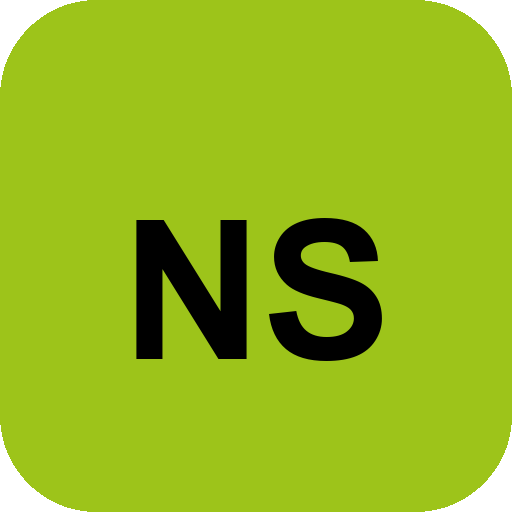
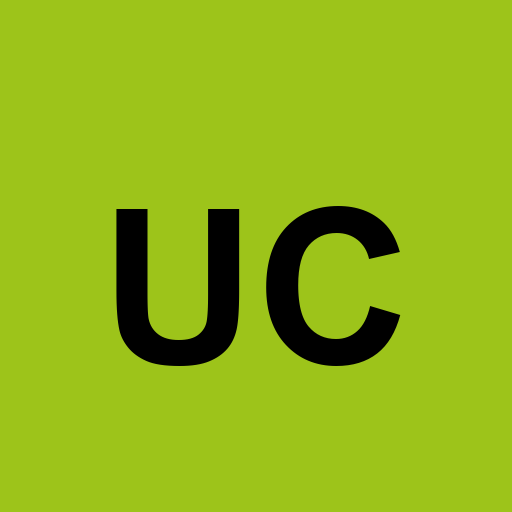
Use a UC home-screen mark so UCM no longer looks like NS Suite.
Regenerate apple-touch and favicons with opaque UC branding, and add PWA manifest metadata for Add to Home Screen.

diff --git a/src/app/manifest.ts b/src/app/manifest.ts
@@ -1,0 +1,35 @@
+import type { MetadataRoute } from "next";
+
+/** PWA / Add to Home Screen metadata for Ultra Content Maker. */
+export default function manifest(): MetadataRoute.Manifest {
+  return {
+    name: "Ultra Content Maker",
+    short_name: "UCM",
+    description:
+      "LinkedIn AI ghostwriter and authority system · Persona, brief, quality posts, export.",
+    start_url: "/",
+    display: "standalone",
+    background_color: "#9dc41a",
+    theme_color: "#9dc41a",
+    icons: [
+      {
+        src: "/icon-192.png",
+        sizes: "192x192",
+        type: "image/png",
+        purpose: "any",
+      },
+      {
+        src: "/icon-512.png",
+        sizes: "512x512",
+        type: "image/png",
+        purpose: "any",
+      },
+      {
+        src: "/apple-touch-icon.png",
+        sizes: "180x180",
+        type: "image/png",
+        purpose: "any",
+      },
+    ],
+  };
+}

diff --git a/src/app/layout.tsx b/src/app/layout.tsx
@@ -19,11 +19,19 @@ export const metadata: Metadata = {
  metadataBase: new URL(siteUrl),
  title: "ULTRA CONTENT MAKER",
  description: siteDescription,
+ applicationName: "Ultra Content Maker",
+ appleWebApp: {
+ capable: true,
+ title: "UCM",
+ statusBarStyle: "default",
+ },
  icons: {
  icon: [
  { url: "/favicon.ico", sizes: "any" },
  { url: "/icon.svg", type: "image/svg+xml" },
  { url: "/icon.png", type: "image/png", sizes: "32x32" },
+ { url: "/icon-192.png", type: "image/png", sizes: "192x192" },
+ { url: "/icon-512.png", type: "image/png", sizes: "512x512" },
  ],
  apple: [{ url: "/apple-touch-icon.png", type: "image/png", sizes: "180x180" }],
  },

diff --git a/src/lib/brand/ns-mark-image.tsx b/src/lib/brand/ns-mark-image.tsx
@@ -8,7 +8,10 @@ type NsMarkImageProps = {
   borderRadius: number;
 };
 
-/** NS mark for `next/og` ImageResponse (favicon & social previews). */
+/**
+ * UCM product mark for `next/og` ImageResponse (social previews).
+ * Letters = UC (Ultra Content) — distinct from suite NsMark "NS" in the UI chrome.
+ */
 export function NsMarkImage({ size, borderRadius }: NsMarkImageProps): ReactNode {
   return (
     <div
@@ -28,7 +31,7 @@ export function NsMarkImage({ size, borderRadius }: NsMarkImageProps): ReactNode
         letterSpacing: "-0.04em",
       }}
     >
-      NS
+      UC
     </div>
   );
 }
